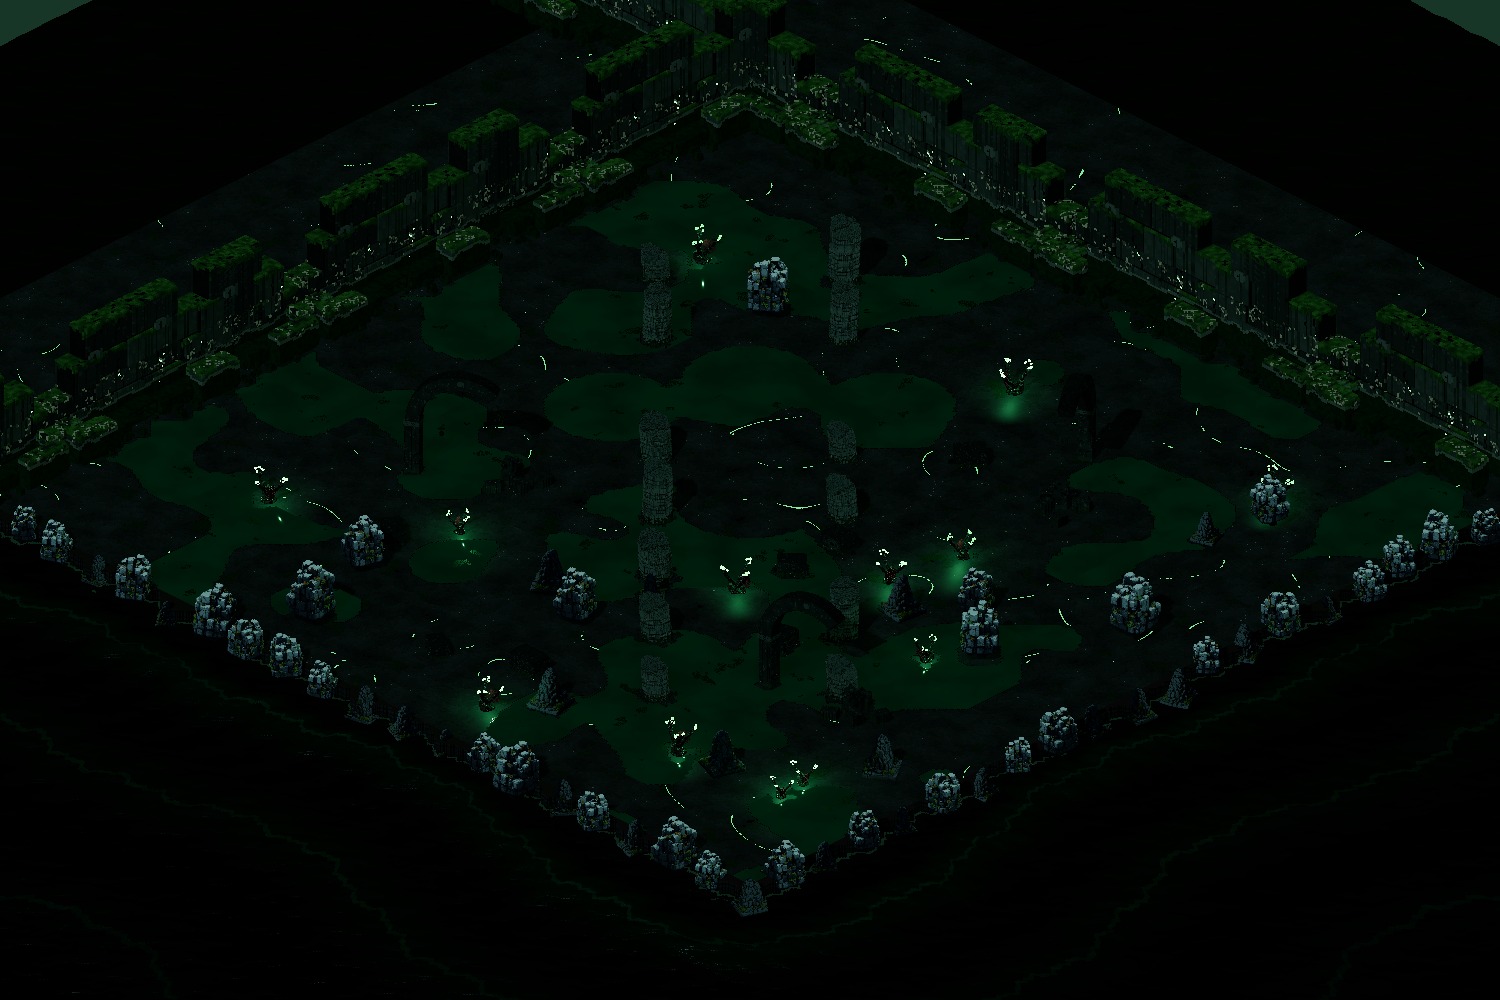
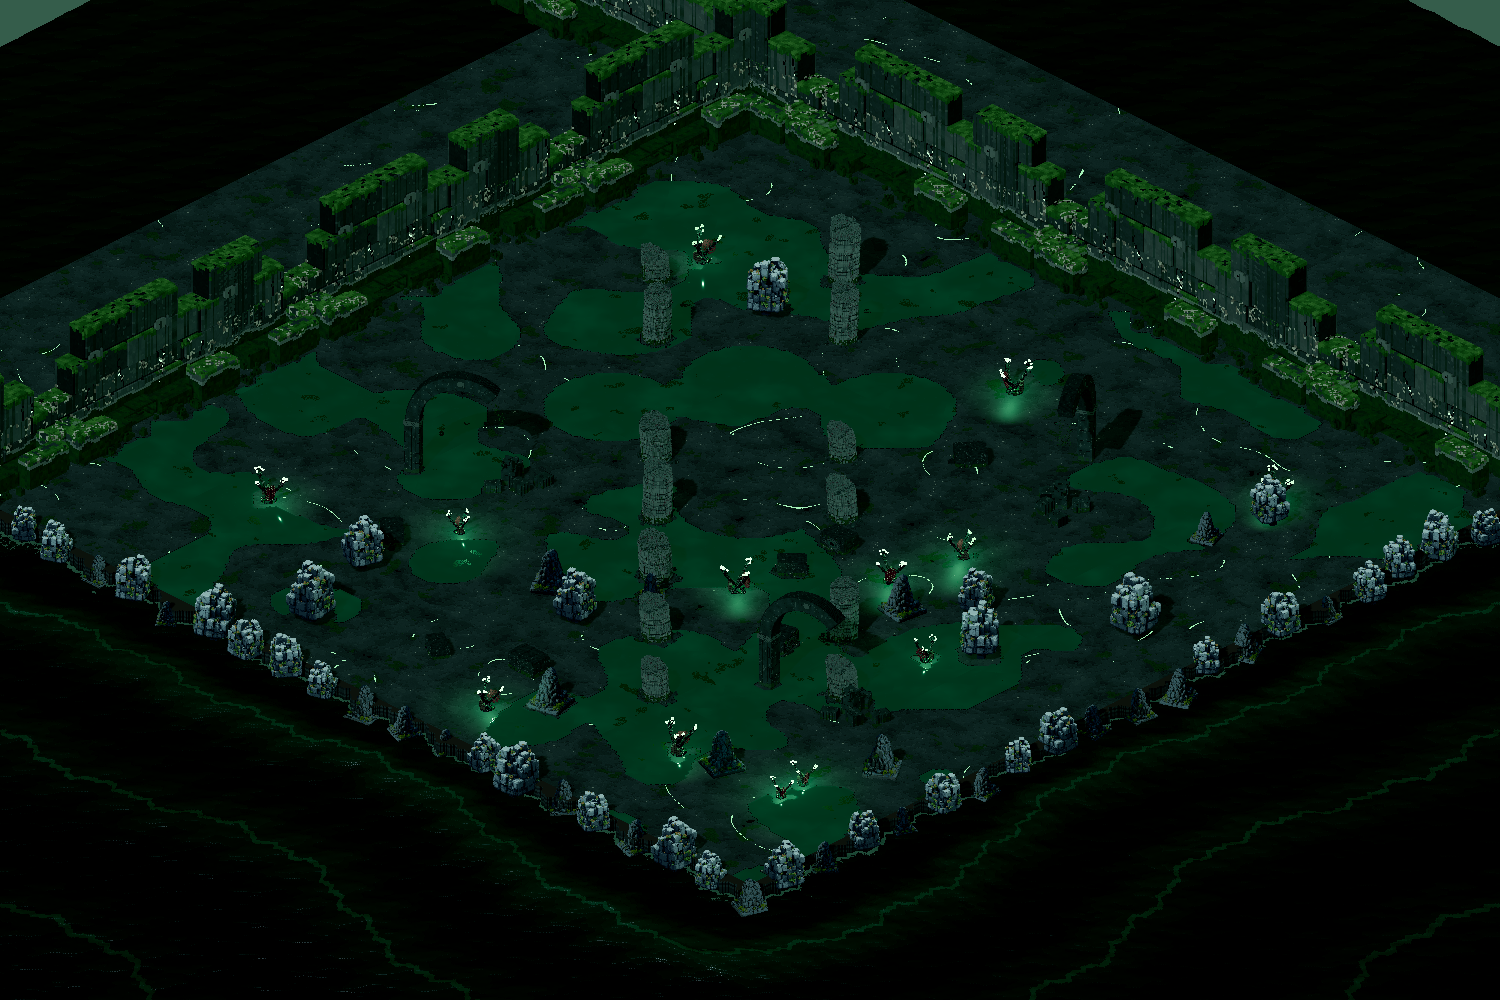
Mapas de la Biblioteca con la curva de sombras de cada arena y nieve de día menos quemada (exposición del campamento 1,0 y de Lake 0,85)

diff --git a/tools/gen_arena_lake.py b/tools/gen_arena_lake.py
@@ -73,7 +73,7 @@ A.write({
     "barrier": {"models": ICE_BARRIER, "sides": ["north", "west"],
                 "line": HALF + 4.5, "spacing": 7.0, "from": -HALF - 12.0, "to": HALF + 16.0, "y": -1.0, "plateau": 7.2},
     # día gris en la meseta: sol alto y velado, frío; más contraste que el crepúsculo del nivel 1
-    "light": {"sun_rot": [-38, 140], "sun_color": [0.86, 0.90, 1.0], "sun_energy": 0.5, "exposure": 1.15,
+    "light": {"sun_rot": [-38, 140], "sun_color": [0.86, 0.90, 1.0], "sun_energy": 0.5, "exposure": 0.85,
               "ambient_color": [0.56, 0.62, 0.72], "ambient_energy": 0.42,
               "background": [0.42, 0.46, 0.52], "fog_color": [0.55, 0.60, 0.66], "fog_density": 0.0},
     "lamp": LAMP,

diff --git a/tools/arena_kit.py b/tools/arena_kit.py
@@ -145,7 +145,7 @@ COLLIDERS = {
 }
 
 # Luz del crepúsculo polar (nivel 1, aprobada el 30-09-2026)
-POLAR_DUSK = {"sun_rot": [-18, 35], "sun_color": [1.0, 0.80, 0.62], "sun_energy": 0.6, "exposure": 1.2,
+POLAR_DUSK = {"sun_rot": [-18, 35], "sun_color": [1.0, 0.80, 0.62], "sun_energy": 0.6, "exposure": 1.0,
               "ambient_color": [0.50, 0.58, 0.72], "ambient_energy": 0.32,
               "background": [0.20, 0.25, 0.33], "fog_color": [0.30, 0.36, 0.46], "fog_density": 0.0}
 

diff --git a/docs/ESTADO.md b/docs/ESTADO.md
@@ -736,3 +736,4 @@ Detalle de lo hecho en cada fase e hito, sacado de `CLAUDE.md` el 17-10-2026 par
   - **Curva de sombras tras el tono** (`Atmosphere.set_lift(env, gamma)`: corrección de color 1D, y = x^(1/gamma)). Cada arena la pide con `"gamma"` en su `light` (recetas `gen_arena_*.py` y JSON): túneles 1,5, calles 1,15, tejados 1,25, pantano 1,45, arrecife 1,55, estudio 1,45, ritual 1,5, muelle 1,45, tormenta 1,35, R'lyeh 1,5. Además, el estudio con ambiente 0,75 y tablas y juntas más claras (las juntas casi negras rayaban el suelo) y el ritual con ambiente 0,9. Las noches quedan con mediana 0,16-0,21 (antes 0,04-0,14) y conservan su color; las luces cálidas no se queman. Comparación `shots/luz_cmp_noches.png`; los 15 de antes en `shots/luz_todos.png`.
   - **Brillo** en Configuración > Vídeo (`brightness`, índice en `Settings.BRIGHTNESS`, de −3 a +4; `Settings.brightness_gamma()` multiplica la gamma de la arena) con un patrón de calibración (`BrightnessPattern`: dos ojos sobre negro, uno que apenas debe verse). Se aplica al empezar la partida. Prueba: `cfg_brightness=N`.
   - Para medir: capturas con `max_alive=0 god=true noweapons=true nobreakables=true mute=true shots=4` y luminancia por debajo de la cabecera.
+- **Mapas de la Biblioteca y nieve de día (17-10-2026), pendiente de tu revisión:** `tools/render_mapa.gd` aplica la `"gamma"` de la arena (los mapas de noche ya no salen negros; rehechos los 10). La nieve de día estaba casi quemada: exposición del campamento 1,2 → 1,0 (`POLAR_DUSK` en `arena_kit.py`) y de Lake 1,15 → 0,85 (su ventisca ya aclara). Brillo medio 0,62 → 0,56 y 0,69 → 0,60. Comparación `shots/luz_cmp_nieve.png`; mapas de noche `shots/mapas_noche.png`.
